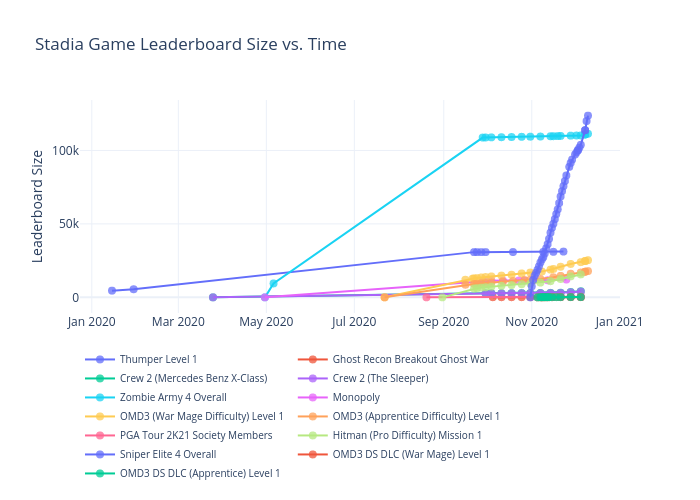
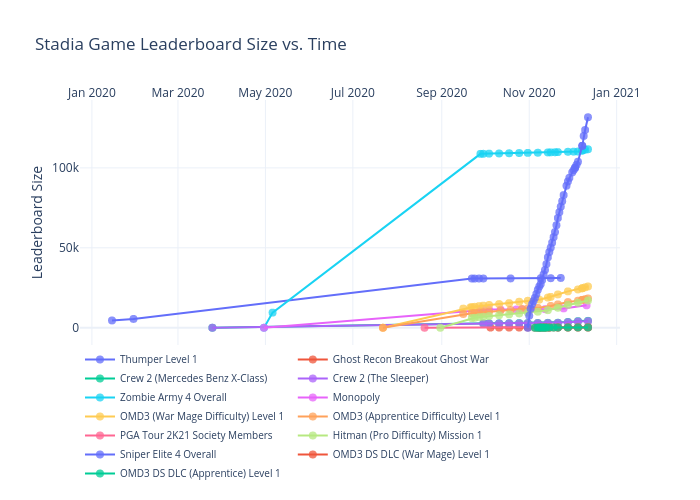
Add files via upload

diff --git a/leaderboards/figure.js b/leaderboards/figure.js
@@ -83,6 +83,7 @@ var figure = {
                 "2020-12-08",
                 "2020-12-09",
                 "2020-12-10",
+                "2020-12-11",
                 "2020-12-12",
                 "2020-12-19",
                 "2020-12-26",
@@ -239,6 +240,7 @@ var figure = {
                 "2020-12-08",
                 "2020-12-09",
                 "2020-12-10",
+                "2020-12-11",
                 "2020-12-12",
                 "2020-12-19",
                 "2020-12-26",
@@ -312,6 +314,12 @@ var figure = {
                 null,
                 null,
                 "",
+                "",
+                "128",
+                null,
+                null,
+                null,
+                null,
                 "",
                 "128"
             ],
@@ -407,6 +415,7 @@ var figure = {
                 "2020-12-08",
                 "2020-12-09",
                 "2020-12-10",
+                "2020-12-11",
                 "2020-12-12",
                 "2020-12-19",
                 "2020-12-26",
@@ -481,7 +490,13 @@ var figure = {
                 null,
                 "",
                 "",
-                "4150"
+                "4150",
+                null,
+                null,
+                null,
+                null,
+                "",
+                "4330"
             ],
             "marker": {
                 "size": 8,
@@ -575,6 +590,7 @@ var figure = {
                 "2020-12-08",
                 "2020-12-09",
                 "2020-12-10",
+                "2020-12-11",
                 "2020-12-12",
                 "2020-12-19",
                 "2020-12-26",
@@ -649,7 +665,13 @@ var figure = {
                 null,
                 "",
                 "",
-                "3930"
+                "3930",
+                null,
+                null,
+                null,
+                null,
+                "",
+                "4081"
             ],
             "marker": {
                 "size": 8,
@@ -743,6 +765,7 @@ var figure = {
                 "2020-12-08",
                 "2020-12-09",
                 "2020-12-10",
+                "2020-12-11",
                 "2020-12-12",
                 "2020-12-19",
                 "2020-12-26",
@@ -821,7 +844,9 @@ var figure = {
                 "110851",
                 "110851",
                 null,
-                "111370"
+                "111370",
+                "",
+                "111645"
             ],
             "marker": {
                 "size": 8,
@@ -915,6 +940,7 @@ var figure = {
                 "2020-12-08",
                 "2020-12-09",
                 "2020-12-10",
+                "2020-12-11",
                 "2020-12-12",
                 "2020-12-19",
                 "2020-12-26",
@@ -979,7 +1005,22 @@ var figure = {
                 "",
                 "",
                 "",
-                "12118"
+                "12118",
+                null,
+                null,
+                null,
+                null,
+                null,
+                null,
+                null,
+                null,
+                null,
+                null,
+                null,
+                null,
+                null,
+                null,
+                "14031"
             ],
             "marker": {
                 "size": 8,
@@ -1073,6 +1114,7 @@ var figure = {
                 "2020-12-08",
                 "2020-12-09",
                 "2020-12-10",
+                "2020-12-11",
                 "2020-12-12",
                 "2020-12-19",
                 "2020-12-26",
@@ -1151,7 +1193,9 @@ var figure = {
                 "24699",
                 "24699",
                 null,
-                "25281"
+                "25281",
+                "",
+                "25826"
             ],
             "marker": {
                 "size": 8,
@@ -1245,6 +1289,7 @@ var figure = {
                 "2020-12-08",
                 "2020-12-09",
                 "2020-12-10",
+                "2020-12-11",
                 "2020-12-12",
                 "2020-12-19",
                 "2020-12-26",
@@ -1323,7 +1368,9 @@ var figure = {
                 "17427",
                 "17427",
                 null,
-                "17878"
+                "17878",
+                "",
+                "18339"
             ],
             "marker": {
                 "size": 8,
@@ -1417,6 +1464,7 @@ var figure = {
                 "2020-12-08",
                 "2020-12-09",
                 "2020-12-10",
+                "2020-12-11",
                 "2020-12-12",
                 "2020-12-19",
                 "2020-12-26",
@@ -1491,7 +1539,13 @@ var figure = {
                 null,
                 "",
                 "",
-                "408"
+                "408",
+                null,
+                null,
+                null,
+                null,
+                "",
+                "483"
             ],
             "marker": {
                 "size": 8,
@@ -1585,6 +1639,7 @@ var figure = {
                 "2020-12-08",
                 "2020-12-09",
                 "2020-12-10",
+                "2020-12-11",
                 "2020-12-12",
                 "2020-12-19",
                 "2020-12-26",
@@ -1659,7 +1714,13 @@ var figure = {
                 null,
                 "",
                 "",
-                "15608"
+                "15608",
+                null,
+                null,
+                null,
+                null,
+                "",
+                "17045"
             ],
             "marker": {
                 "size": 8,
@@ -1753,6 +1814,7 @@ var figure = {
                 "2020-12-08",
                 "2020-12-09",
                 "2020-12-10",
+                "2020-12-11",
                 "2020-12-12",
                 "2020-12-19",
                 "2020-12-26",
@@ -1831,7 +1893,9 @@ var figure = {
                 "113769",
                 "113769",
                 "119986",
-                "123693"
+                "123693",
+                "",
+                "131669"
             ],
             "marker": {
                 "size": 8,
@@ -1925,6 +1989,7 @@ var figure = {
                 "2020-12-08",
                 "2020-12-09",
                 "2020-12-10",
+                "2020-12-11",
                 "2020-12-12",
                 "2020-12-19",
                 "2020-12-26",
@@ -1999,7 +2064,13 @@ var figure = {
                 null,
                 "",
                 "",
-                "219"
+                "219",
+                null,
+                null,
+                null,
+                null,
+                "",
+                "245"
             ],
             "marker": {
                 "size": 8,
@@ -2093,6 +2164,7 @@ var figure = {
                 "2020-12-08",
                 "2020-12-09",
                 "2020-12-10",
+                "2020-12-11",
                 "2020-12-12",
                 "2020-12-19",
                 "2020-12-26",
@@ -2167,7 +2239,13 @@ var figure = {
                 null,
                 "",
                 "",
-                "186"
+                "186",
+                null,
+                null,
+                null,
+                null,
+                "",
+                "203"
             ],
             "marker": {
                 "size": 8,
@@ -2184,10 +2262,11 @@ var figure = {
             "text": "Stadia Game Leaderboard Size vs. Time"
         },
         "xaxis": {
+            "side": "top",
             "type": "date",
             "range": [
-                "2019-12-25 07:40:09.0641",
-                "2020-12-30 16:19:50.9359"
+                "2019-12-25 04:39:40.0282",
+                "2021-01-01 19:20:19.9718"
             ],
             "title": {
                 "text": ""
@@ -2197,8 +2276,8 @@ var figure = {
         "yaxis": {
             "type": "linear",
             "range": [
-                -18118.696399345336,
-                141811.69639934532
+                -13431.118729096988,
+                145100.11872909698
             ],
             "title": {
                 "text": "Leaderboard Size"
@@ -2207,7 +2286,7 @@ var figure = {
         },
         "legend": {
             "x": 0,
-            "y": -0.15,
+            "y": 0,
             "font": {
                 "size": 10
             },
